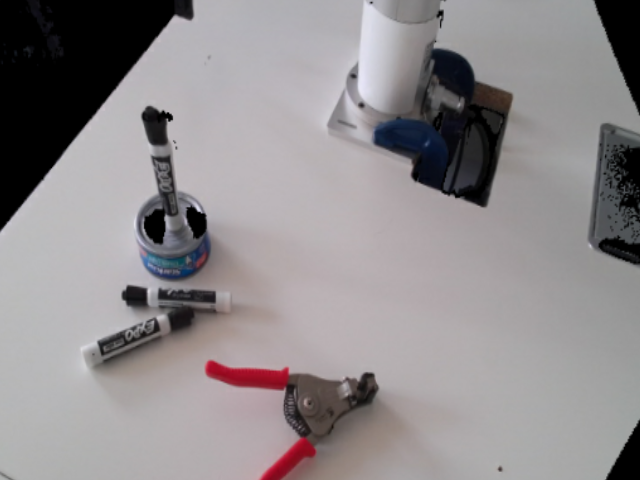
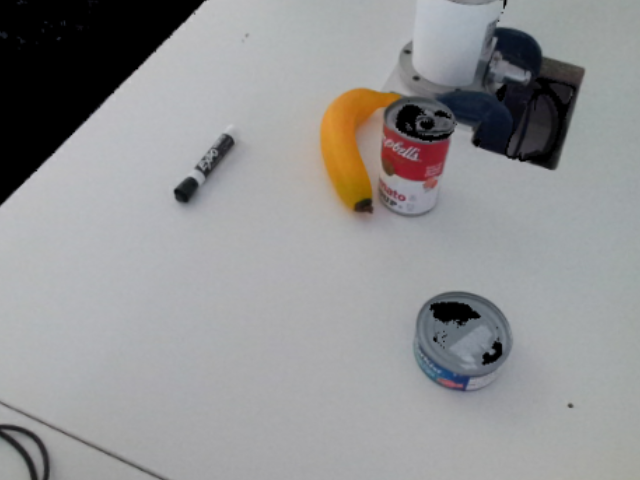
Add banana and tomato_soup_can

diff --git a/pvn3d/datasets/ycb/ycb_dataset.py b/pvn3d/datasets/ycb/ycb_dataset.py
@@ -245,11 +245,17 @@ class YCB_Dataset():
             kp_targ_ofst = np.zeros((config.n_sample_points, config.n_keypoints, 3))
             ctr_targ_ofst = np.zeros((config.n_sample_points, 3))
             cls_id_lst = meta['cls_indexes'].flatten().astype(np.uint32)
-            cls_id_lst = [6, 18] # '040_large_marker', the 18 th line in 'datasets/ycb/dataset_config/classes.txt'
+            for_demo = True
+            if for_demo:
+                cls_id_lst = [4, 6, 10, 18] # '040_large_marker', the 18 th line in 'datasets/ycb/dataset_config/classes.txt'
             # print("cls_id_lst:" + str(cls_id_lst))
             for i, cls_id in enumerate(cls_id_lst):
-                r = meta['poses'][:, :, i][:, 0:3]
-                t = np.array(meta['poses'][:, :, i][:, 3:4].flatten()[:, None])
+                if for_demo:  # these are not used, can be ignored
+                    r = meta['poses'][:, :, 0][:, 0:3]
+                    t = np.array(meta['poses'][:, :, 0][:, 3:4].flatten()[:, None])
+                else:
+                    r = meta['poses'][:, :, i][:, 0:3]
+                    t = np.array(meta['poses'][:, :, i][:, 3:4].flatten()[:, None])
                 RT = np.concatenate((r, t), axis=1)
                 RTs[i] = RT
 

diff --git a/pvn3d/demo.py b/pvn3d/demo.py
@@ -30,10 +30,10 @@ except:
 
 parser = argparse.ArgumentParser(description="Arg parser")
 parser.add_argument(
-    "-checkpoint", type=str, default=None, help="Checkpoint to eval"
+    "-checkpoint", type=str, default='/home/ubuntu/workplace/PVN3D/pvn3d/train_log/ycb/checkpoints/pvn3d_best', help="Checkpoint to eval"
 )
 parser.add_argument(
-    "-dataset", type=str, default="linemod",
+    "-dataset", type=str, default="ycb",
     help="Target dataset, ycb or linemod. (linemod as default)."
 )
 parser.add_argument(
